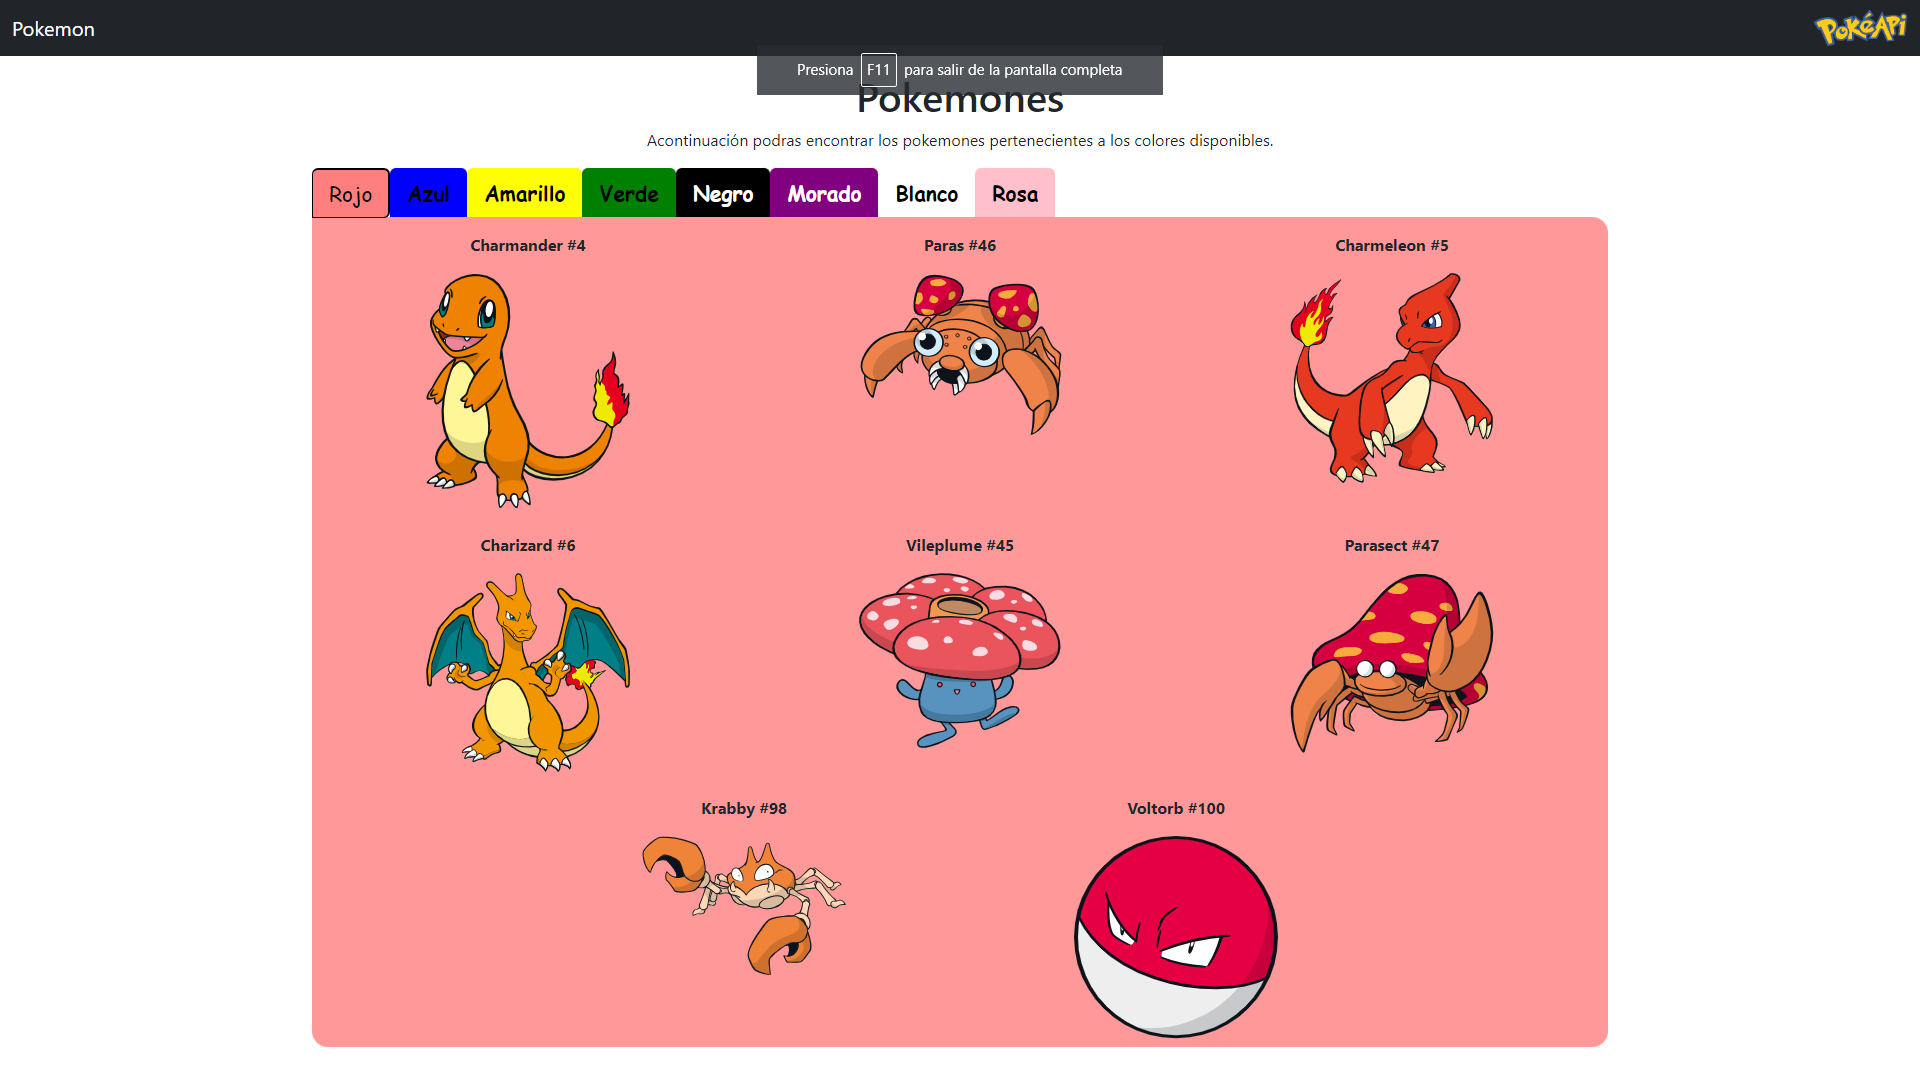
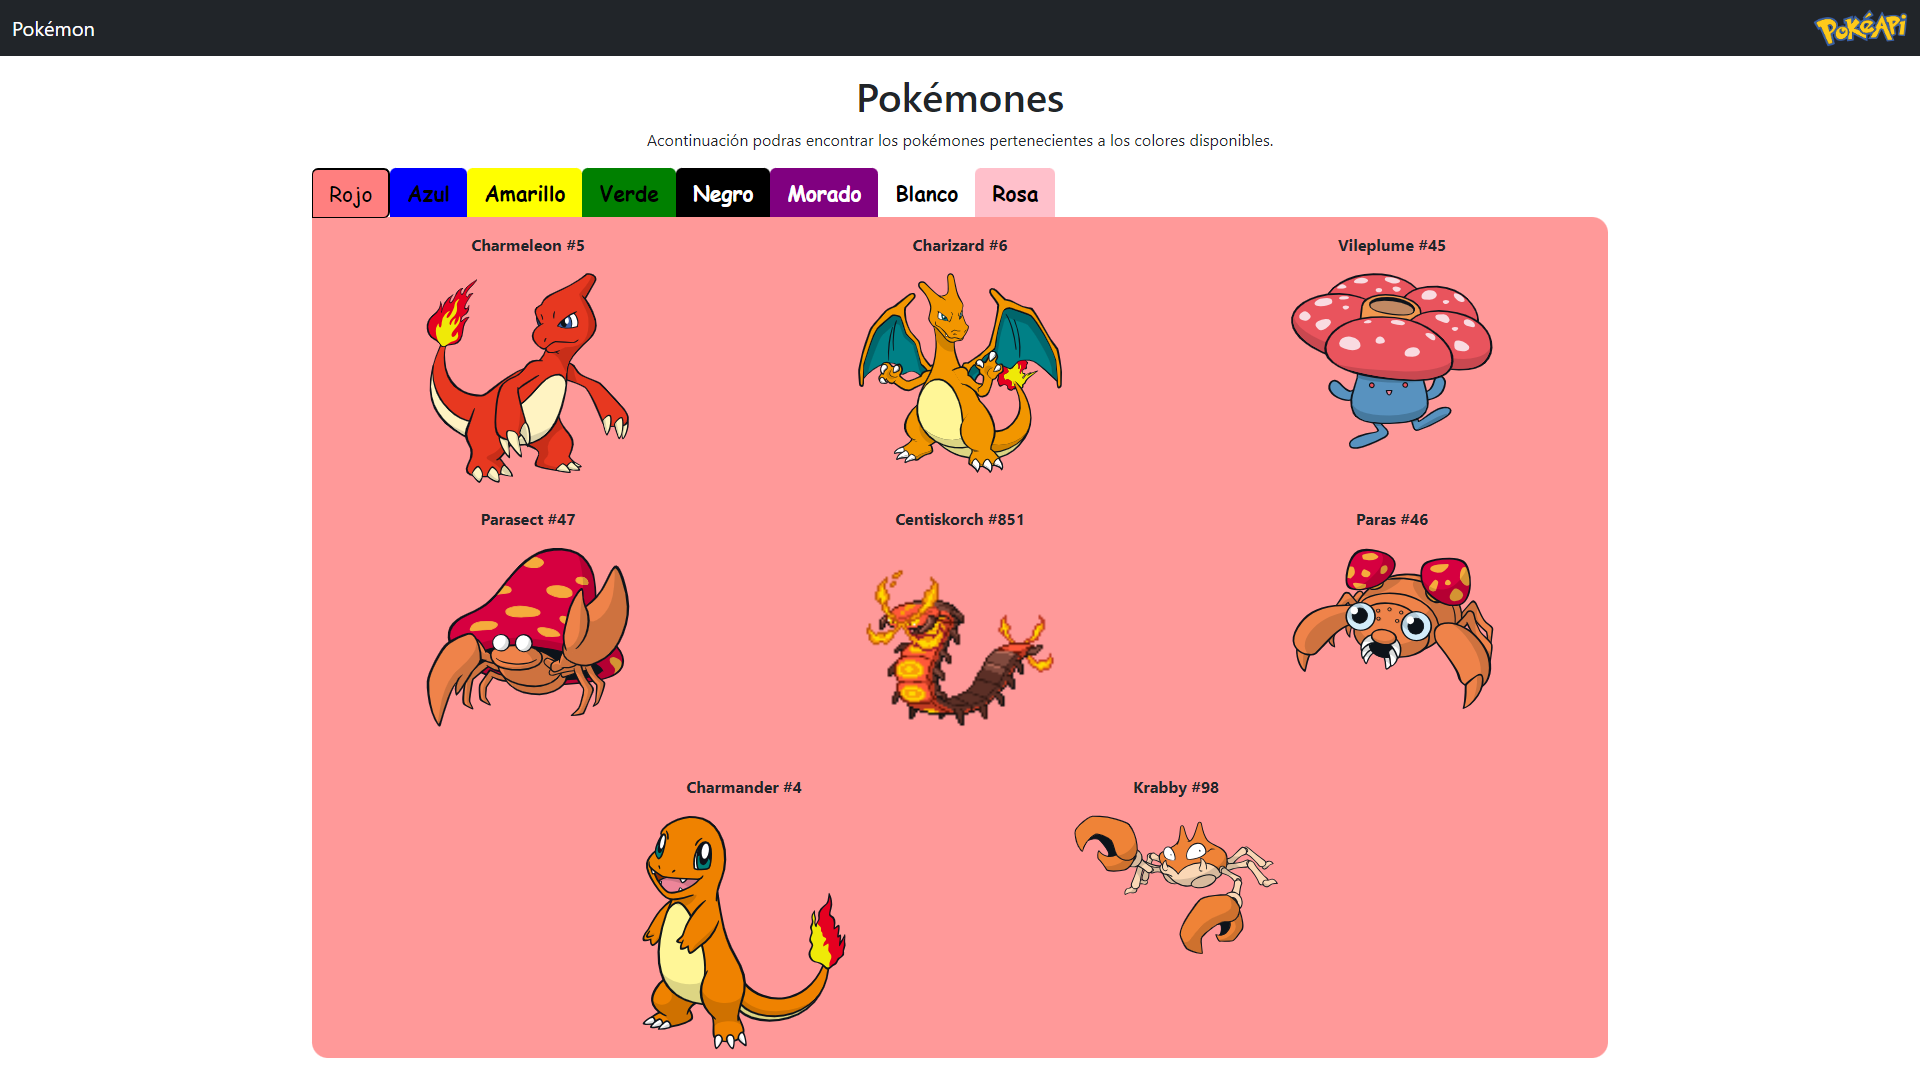
Corrección de mensajes en consola

diff --git a/src/app/service/pokeapi.service.ts b/src/app/service/pokeapi.service.ts
@@ -1,12 +1,13 @@
 import { HttpClient } from '@angular/common/http';
 import { Injectable } from '@angular/core';
+import { environment } from '../../environments/environments';
 
 @Injectable({
   providedIn: 'root'
 })
 export class PokeapiService {
 
-  private url = 'https://pokeapi.co/api/v2/';
+  private url = `${environment.api.pokeapi}`;
 
   constructor(private http: HttpClient) { }
 

diff --git a/src/app/pag/inicio/inicio.component.html b/src/app/pag/inicio/inicio.component.html
@@ -1,6 +1,6 @@
 <section class="container text-center mt-3 mb-3">
-    <h1>Pokemones</h1>
-    <p>Acontinuación podras encontrar los pokemones pertenecientes a los colores disponibles.</p>
+    <h1>Pokémones</h1>
+    <p>Acontinuación podras encontrar los pokémones pertenecientes a los colores disponibles.</p>
 
     <div>
 

diff --git a/src/app/app-routing.module.ts b/src/app/app-routing.module.ts
@@ -10,8 +10,12 @@ const routes: Routes = [
   { path: '**', component: InicioComponent }
 ];
 
+const extraOptions = {
+  useHash: true 
+};
+
 @NgModule({
-  imports: [RouterModule.forRoot(routes)],
+  imports: [RouterModule.forRoot(routes, extraOptions)],
   exports: [RouterModule]
 })
 export class AppRoutingModule { }

diff --git a/src/app/pag/informacion/informacion.component.ts b/src/app/pag/informacion/informacion.component.ts
@@ -41,8 +41,8 @@ export class InformacionComponent {
 
       this.habilidades = data.abilities.map((habilidad: any) => habilidad.ability.name);
       
-      console.log(this.detalles);
-      console.log(this.habilidades);
+      // console.log(this.detalles);
+      // console.log(this.habilidades);
     });
   }
 

diff --git a/src/app/nav/nav.component.html b/src/app/nav/nav.component.html
@@ -1,6 +1,6 @@
 <nav class="navbar navbar-dark bg-dark">
     <div class="container-fluid">
-        <a class="navbar-brand">Pokemon</a>
+        <a class="navbar-brand">Pokémon</a>
         <img style="width: 5%" src="assets/pokeapi.png">
     </div>
 </nav>

diff --git a/src/environments/environments.ts b/src/environments/environments.ts
@@ -1,0 +1,6 @@
+export const environment = {
+    production: false,
+    api: {   
+        pokeapi: 'https://pokeapi.co/api/v2/'
+    }
+}

diff --git a/src/environments/environments.prod.ts b/src/environments/environments.prod.ts
@@ -1,0 +1,6 @@
+export const environment = {
+    production: true,
+    api: {   
+        pokeapi: 'https://pokeapi.co/api/v2/'
+    }
+}

diff --git a/README.md b/README.md
@@ -1,12 +1,19 @@
-# Pokemones
+# Pokémones
 
-Pagina web que comsume la [PokéAPI](https://pokeapi.co/docs/v2) mostrando los pokemones por colores y su informacion correspondiente cuando se da click sobre este.
+Aplicación web que comsume la [PokéAPI](https://pokeapi.co/docs/v2) mostrando los pokémones por colores y su informacion correspondiente cuando se da click sobre este.
 
 <div align="center">
-<img src="https://raw.githubusercontent.com/Caballero-dev/poke-api/main/imagnes/Pokemon.png?token=GHSAT0AAAAAACM3DH2NUOB2XTW2G3UGAYDEZPM36PQ">
-<img src="https://raw.githubusercontent.com/Caballero-dev/poke-api/main/imagnes/Pokemon_1.png?token=GHSAT0AAAAAACM3DH2MBXJ5K5KF2GXX3XV6ZPM37VA" >
+<img src="imagnes/Pokemon.png">
+<img src="imagnes/Pokemon_1.png" >
 </div>
 
 <br>
 
 Proyecto generado con [Angular CLI](https://github.com/angular/angular-cli) version 17.0.5.
+
+## Para correr el proyecto
+
+1. Clonar el repositorio
+2. Instalar las dependencias con `npm install`
+3. Correr el proyecto con `ng serve`
+4. Navegar a `http://localhost:4200/`
